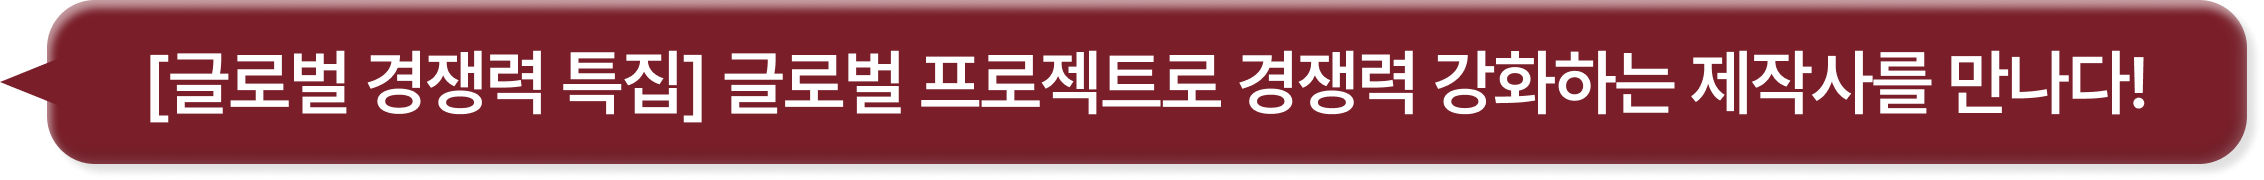
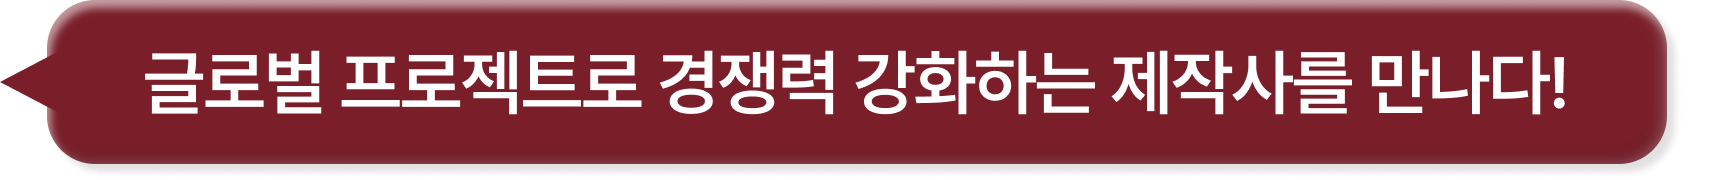
People Insight 1번 원고 퍼블리싱

Changed region(s): [[0.0622, 0.0, 0.9954, 0.9444], [0.0, 0.0, 0.0622, 0.3333], [0.0, 0.5833, 0.0622, 0.9167]]

diff --git a/people_1.html b/people_1.html
@@ -4,7 +4,7 @@
 <head>
   <meta charset="UTF-8" />
   <meta name="viewport" content="width=device-width, initial-scale=1.0" />
-  <meta name="방송영상·OTT 트렌드 2025 Vol. 3" content="방송영상·OTT 트렌드 2025 Vol. 3"/>
+  <meta name="방송영상·OTT 트렌드 2025 Vol. 4" content="방송영상·OTT 트렌드 2025 Vol. 4" />
   <meta property="og:image" content="./img/assets/meta.png">
   <title>방송영상 · OTT 트렌드</title>
 
@@ -75,10 +75,10 @@
       <div class="banner-inner">
         <div class="banner-meta">
           <p class="banner-number">피플 인사이트 1</p>
-          <p class="banner-theme">방송영상콘텐츠 다양성을 실천하는 제작자를 만나다!</p>
+          <p class="banner-theme">글로벌 프로젝트로 경쟁력을 강화하는 제작자를 만나다!</p>
         </div>
         <p class="banner-title">
-          세상에 대한 관심으로 다양성을 이야기하다: <br class="pc-br">최복희 EBS <세상을 비집고> PD 인터뷰
+          국제 공동제작, 한국 콘텐츠의 가치를 한 단계 올려주다:<br class="pc-br">백헌석 이엘TV·스튜디오잔치 대표 인터뷰
         </p>
       </div>
     </div>
@@ -89,7 +89,7 @@
       <!-- 리드 문단 -->
       <div class="lead-section">
         <div class="lead-container">
-          <p class="lead-text"><span class="quotes">“</span>다양성을 소재로 방송영상콘텐츠를 만드는 제작자를 인터뷰하기로 기획했을 때, 편집부 안팎에서 한 목소리로 추천해준 분이 있었다. 바로 시사교양·다큐멘터리 분야에서 20년 넘게 사회의 다양한 계층을 만나 그들의 이야기를 방송으로 만들어온 최복희 PD였다. 그에게 다양성 콘텐츠를 꾸준히 만드는 이유를 묻자 호탕하게 웃으며 이렇게 답했다. “처음에는 보려고 해야 보여지더니, 이제는 보려고 하지 않아도 자꾸 눈에 보이더라구요.” 사회의 다양한 계층과 사람들 속으로 직접 들어가 끊임없는 관심으로 이야기를 찾아내는 23년차 PD를 만나서 제작 현장에서 느낀 다양성에 대해 들어보았다.<span class="quotes">”</span></p>
+          <p class="lead-text"><span class="quotes">“</span>국내 제작사 ‘스튜디오 잔치’가 글로벌 제작사 BBC스튜디오와 공동제작을 진행하고 있다. 스튜디오잔치는 ‘랩소디 시리즈’ 와 ‘K푸드쇼 맛의나라’ 로 잘 알려진 ‘이엘TV’의 자회사다. 이엘TV의 대표이자 스튜디오잔치를 함께 이끌고 있는 백헌석 대표를 만나서 BBC와의 국제 공동제작의 생생한 작업 후기와 노하우를 들어보았다.<span class="quotes">”</span></p>
           <p class="lead-author">정리. <방송영상·OTT 트렌드> 편집부</p>
         </div>
       </div>
@@ -116,41 +116,37 @@
 
             <div class="subtitle-inner">
               <div class="subtitle-bar-mobile"></div>
-              <div class="subtitle-text">세상에 대한 다양한 관점을 제시하는 방송영상콘텐츠 다양성</div>
+              <div class="subtitle-text">준비된 프로젝트가 공동제작의 기회를 잡는다, BBC와 <열두 바다></div>
             </div>
           </div>
 
-          <p class="interview-summary"><i>“방송 소재 측면에서 얼마나 다양한 계층의 이야기를 할 수 있느냐가 다양성이라고 생각해요”</i></p>
+          <p class="interview-summary"><i>“공모전 피칭에서 가장 신경 쓴 것은 두 가지입니다. 우선 아이템이 재미있어야 하고, 우리가 준비된 파트너라는 점을 강조했어요”</i></p>
 
           <div class="interview-body">
             <div class="interview-qna">
-              <p class="interview-q">Q. 방송영상콘텐츠 다양성이란 어떤 것이라고 생각하는가</p>
+              <p class="interview-q">Q. ‘이엘T’V라는 이름으로 익숙한데, ‘스튜디오잔치’라는 자회사를 만든 이유가 있는가</p>
               <p class="interview-a">
-                (최) 소재 측면에서 말하자면 얼마나 다양한 계층의 이야기를 할 수 있느냐가 다양성의 핵심인 것 같다. 아무래도 방송은 재미나 대중성을 추구하다 보니 특정 계층에 몰입해 이야기하는 경향이 있는데, 공익적인 측면에서 넓혀 보자면 사실 다양한 목소리가 있지 않나. 제가 일하는 시사교양 팀에서 다양성이란 우리가 모르는 다양한 계층의 이야기를 얼마나 많이 전할 수 있는가, 그리고 이 사람들을 모시고 어떤 프로그램을 어떻게 만들어서 시청자들이 봤을 때 ‘아 이런 사람들도 있구나’, ‘저렇게 생활하는 사람도 있구나’ 이런 반응을 얼마나 끌어낼 수 있는가 이런 측면인 것 같다.</p>
+                (백) 많은 분이 ‘랩소디’ 시리즈와 ‘맛의 나라’ 시리즈에 나온 맛집이나 음식에 대해서 궁금해했다. 그래서 그동안 출연했던 맛집이나 음식 명장들을 오프라인에 모시고 그 맛을 현장에서 직접 보여줄 수 있는 자리를 만들어보면 어떨까 생각했다. 그것을 일명 ‘프로젝트 잔치’라고 명명했다. 예를 들어 정관 스님이나 왕육성 셰프님처럼 유명 음식 장인들을 모셔놓고 갈라쇼를 한다든가 아니면 잔치 뷔페나 잔치 밀키트를 만드는 것이다. 또는 푸드 영화나 푸드 엑스포, 푸드 포럼 등 음식 관련 행사를 만들어보면 좋겠다는 생각으로 시작했다.그러나 막상 기획하다 보니까 만만한 일이 아니었다. 방송 제작과는 상황이 다르고 외부와 협업이 되게 중요했고, 많은 팀과 공동 작업을 해야 해서 이것만을 전담으로 할 만한 조직을 만들어야겠다고 생각했다. 사실 처음에 생각해낸 게 ‘스튜디오 잔치’라는 프로젝트 팀이었는데, 저희가 푸드 콘텐츠를 계속 만들다 보니 다양한 장르에서 접근하고 싶었던 아이디어들이 많이 나왔다. 푸드 드라마, 푸드 쇼, 푸드 무비, 이벤트 등 ‘푸드’를 전담으로 하는 탄력 있고 공격적이고 전문적인 조직을 만들자 해서 탄생한 게 ‘스튜디오 잔치’다.</p>
             </div>
 
             <div class="interview-qna">
-              <p class="interview-q">Q. 프로듀서의 관점에서 방송영상콘텐츠 다양성이 필요한 이유는 무엇이라고 보는지</p>
+              <p class="interview-q">Q. BBC와 <열두 바다>를 공동제작하는 것으로 알려졌는데, 이번 협업이 어떻게 이루어졌는지 소개해 달라</p>
               <p class="interview-a">
-                (최) 방송의 역할과 맞닿는 부분도 있는데 단순히 재미 소구용 방송이 아니라 소위 ‘공중파’, 즉 공영 방송국에서 추구하는 다양한 이야기 그리고 방송을 통해서 사람들에게 소구하고자 하는 사회적 의미를 생각했을 때, 방송이 다양한 프로그램과 사람들의 얘기를 통해서 세상에 대한 여러 가지 다양한 관점을 줄 수 있다고 생각한다. ‘나는 이렇게 생각했는데 저런 사람도 있네’, ‘어떤 프로그램 보니까 이렇게 사는 사람들도 있더라’, ‘그 사람들이 봤을 때 나는 그래도 이런 것 같아’ 이렇게 다양한 사람들을 통해서 다양한 생각과 관점을 가질 수 있고 그러다 보면 사회 통합에도 도움이 되는 것 같다. 이해의 폭이 넓어지니까 말이다.</p>
+                (백) 2024년 가을에 BBC스튜디오와 한국콘텐츠진흥원이 글로벌 OTT 플랫폼에 론칭할 프로젝트 공모가 있었는데, 그때 공모에 응해서 최종 선정이 됐다. 사실 <열두 바다>는 미리 준비하던 아이템이다. ‘랩소디’ 시리즈를 한 5~6년 제작하다 보니 다른 프로젝트가 필요했고 원래 바다에 관심이 많았다. 우리나라는 삼면이 바다이고 동해, 남해, 서해 각 바다의 성격이 완전히 다르므로 해산물이 우리나라 식탁 문화에 굉장히 중요한 요소로 자리한다. 이러한 부분을 깊이 있게 다룬다면 굉장히 색다른 콘텐츠가 될 거라고 생각했다. 무엇보다 우리는 1년 열두 달, 매달 새로운 해산물 식재료가 나온다. 이 부분이 굉장히 매력적인 포인트라고 생각해서 제목을 ‘열두 바다’라고 지었다. 사실 삼면의 바다에서 계절마다 나오는 새로운 해산물 식재료를 심도 있게 탐구해 보자는 뜻으로 ‘열두 바다’라는 제목의 기획을 이미 갖고 있었다. 마침 기다렸다는 듯이 BBC·콘진원과 함께하는 기회가 있어 지원했고, 운이 좋게도 저희가 선정돼서 함께 제작하게 되었다.</p>
             </div>
 
             <div class="interview-qna">
-              <p class="interview-q">Q. 현장에서 체감하기에 국내 방송영상콘텐츠 다양성은 어디까지 왔다고 생각하는가</p>
+              <p class="interview-q">Q. <열두 바다>라는 프로젝트에 대해 좀 더 자세하게 소개해 준다면</p>
               <p class="interview-a">
-                (최) 최근 현장에서 느끼기에 소재의 다양성 측면은 오히려 약간 축소되는 것 같다. 방송 환경이 급변하면서 공적인 측면의 방송 역할이 무너진 경향이 있다. 소재의 다양성 역시 방송에서 맛보기나 재미 측면에서 다양성 축으로 가는 거지. 진정성 있게 계층 간의 다양한 목소리를 내는 사례는 줄어들고 있지 않나 싶다.</p>
+                (백) 일단 한국처럼 삼면이 바다를 갖고 있는 나라가 세계적으로 그렇게 많지 않은데, 그 바다의 성격이 각각 다르기도 굉장히 어렵다. 아시다시피 동해는 한류와 난류가 교차해 어족(어종)이 풍부한 지역이다. 남해는 섬을 많이 품고 있고 수온이 따뜻해 많은 어류와 해산물의 산란처 역할을 해서 양식이 발달해 있다. 서해에는 자랑스러운 갯벌이 있다. 이렇게 각 바다가 성격이 너무 다르고 각 바다에서 매 계절 봄, 여름, 가을, 겨울마다 나오는 해산물 또한 정말 다양하다. 바다에서 나오는 해산물의 수를 대략 헤아려보면 우리나라 사람들이 섭취하는 해산물 종류가 180여 종 정도 된다. 아마 세계에서 가장 다양한 해산물을 섭취하는 민족이 우리나라일 것이다. 심지어 해산물을 날로만 먹는 게 아니라 여러 조리법으로 먹기도 한다. 또 우리는 발효의 민족 아닌가. 다양한 방식으로 발효해서 젓갈 등이 건강한 식탁을 구성하는 데 중요한 요소로 작용한다. 바다에 관한 이야기는 우리나라뿐 아니라 특히 아시아권이 해산물을 많이 섭취하기 때문에 아시아권 국가에도 매력적으로 다가설 것으로 생각했다. 따라서 글로벌에서 의미 있는 한식 프로젝트를 론칭할 때 바다를 주제로 해야겠다는 생각으로 만든 게 <열두 바다>다.</p>
             </div>
 
             <div class="interview-qna">
-              <p class="interview-q">Q. 작품 연출할 때 소재나 콘텐츠 다양성을 특별히 고려하는 부분이 있는가</p>
+              <p class="interview-q">Q. 콘진 공모전 피칭할 때 가장 신경 쓴 부분이 있다면 무엇인가</p>
               <p class="interview-a">
-                (최) 처음 기획할 때부터 어떤 계층의 어떤 이야기를 할 것인가를 정해야 한다. 1차로 타깃팅을 어디로 할 것인지, 여기부터 선택의 부분이다. 사실 독립영화를 만들지 않는 한, 기획이 어느 정도는 나올 수밖에 없다. 예를 들면 작년에 했던 저출생 관련 다큐는 저출생 관련해서 기획안을 써서 일단 주제가 정해졌다. 그럼 그 안에서 다양성 측면에서 어떤 부분을 보여줄 것인가는 PD의 몫이다. 예를 들어 난임에 대한 얘기를 한다면 난임의 어떤 부분과 저출생을 연관지을 것인지, 아니면 다둥이를 찍어서 이 다둥이의 어떤 모습을 통해서 어떤 게 힘들고 이 사람들은 왜 그런 선택을 했고 이런 걸 통해서 저출생 문제를 해결하려고 할 것인지. 하나의 주제 안에서 계층 간의 다양성을 얘기한다면 정말 어렵게 사는 얘기를 할 수도 있다. 이런 식으로 소재들을 어떤 식으로 선택하는가에 따라서 다큐멘터리 안에서의 다양성이 달라지는 것 같다.</p>
-            </div>
-
-            <div class="interview-qna">
-              <p class="interview-q">Q. 다양성을 고려해서 연출할 때 가장 어려운 부분이 있다면 무엇인가</p>
-              <p class="interview-a">
-                (최) 아무래도 섭외다. 모든 방송 프로그램은 소재가 중요하다. 소재에 맞는 섭외가 돼야 하고, 그에 맞는 인물 캐릭터가 있어야 한다. 사람들이 방송을 봤을 때 소구력이 있어야 하기 때문에, 항상 주제에 맞는 캐릭터 섭외를 고민한다. 우리의 방송 콘셉트를 말씀드리고 출연자들이 프로그램에 적극적으로 참여할 수 있게끔 끌어내는 게 PD의 역할인데 그게 가장 중요하고도 어려운 부분인 것 같다.</p>
+                <b>(백) 두 가지였다. 첫 번째로 우선 아이템이 재미있어야 한다.</b> 그래서 우리 아이템이 재미있고 전 세계 사람들의 흥미를 끌 것이라는 부분을 강조하려고 애썼다. 특히 한국 바다에 다양한 해산물이 나온다는 것 그리고 계절마다 또 달마다 새로운 해산물이 나오고 그 해산물을 다양한 조리법과 실험법으로 건강한 밥상과 먹거리를 만들어내고 있다는 것을 강조하려고 했다. 또한 이러한 부분은 해산물을 좋아하는 아시아권에서 매력적으로 다가설 것이라는 걸 어필하려고 애를 썼다.<br><br>
+                
+                <b>두 번째는 결국 우리는 준비된 파트너라는 것이다.</b> 그래서 레퍼런스로 ‘랩소디’ 시리즈, ‘맛의나라’ 시리즈를 통해서 우리의 제작 퀄리티와 스타일에 대해서 어필하려고 애를 썼고, 무엇보다 우리는 BBC와 좋은 파트너가 될 것이라는 점을 많이 강조했다.</p>
             </div>
           </div>
         </section>
@@ -162,46 +158,35 @@
 
             <div class="subtitle-inner">
               <div class="subtitle-bar-mobile"></div>
-              <div class="subtitle-text">다양성 방송콘텐츠 제작 사례: EBS <세상을 비집고> 외</div>
+              <div class="subtitle-text">국제 공동제작, 서로의 언어와 방식을 맞춰가는 시간이 필요하다</div>
             </div>
           </div>
 
-          <p class="interview-summary"><i>“사실 보려고 해야 보이잖아요.<br>처음에는 보려고 해야 보여지더니, 나중에는 보려하지 않아도 보이더라구요.”</i></p>
+          <p class="interview-summary"><i>“우리는 크게 중요하지 않다고 생각하는 부분을 BBC에서는 오히려 중요하다고 강조하는 경우도 있어서 그에 대한 격차가 초반에 많이 컸습니다.”</i></p>
         
           <div class="interview-body">
             <div class="interview-qna">
-              <p class="interview-q">Q. EBS <세상을 비집고>(이하 세비고)는 각기 다른 장애를 가진 MZ세대 4인방이 주인공으로 등장한다는 점에서 기존 국내 방송에서 보기 어려운 프로그램인데, 기획 의도가 무엇인가</p>
+              <p class="interview-q">Q. 이번 협업에서 스튜디오잔치와 BBC는 각각 어떤 역할을 담당해서 진행하고 있는가</p>
               <p class="interview-a">
-                (최) EBS 편성팀에서 기획안이 나왔는데, 다양한 나이대와 계층을 가진 장애인들이 나와서 장애에 대해 스스럼없이 밝은 분위기로 얘기하는 프로그램이었으면 좋겠다는 내용이었다. 사실 그전부터 우리나라 장애인 프로그램에 대한 문제 의식이 있었다. 매번 사연팔이 아니면 짠하게만 그려지는 거다. 저는 소외계층이라는 말도 마음에 안 든다. 소외계층이라는 말 자체가 사실은 소외시키는 것 같다. 장애인, 소외계층이라는 카테고리 안에 가두다 보니까 그 사람이 어떤 성격을 가졌고 어떤 인물인지 전혀 생각하지 않고, 싸잡아서 전부 장애인이고 소외계층을 만든다. 이런 접근을 하다 보니 방송에서도 이 사람이 왜 다쳤는지 그리고 왜 힘든지를 자꾸 감성적으로 유도하는 경향이 있다.<br><br>
+                (백) 완벽한 공동 제작이다. 저도 이런 해외 공동 제작을 처음 해봤는데, <b>‘이게 진짜 공동 제작이구나’ 하는 생각이 들 정도로 완벽하게 함께 한다. 모든 걸 함께 결정하고 고민하고 토의하는 가운데 최선의 선택을 하기 위해서 많은 대화를 하는 과정을 갖는데 물론 쉽지는 않다.</b> 역할 분담을 보자면, BBC 스튜디오에는 EP(Executive Producer, 총괄프로듀서)와 우리나라로 치면 작가 역할을 동반하는 편집프로듀서라는 개념이 있는데 그렇게 두 분이 전담으로 적극적인 참여를 한다. 스튜디오잔치는 제가 EP를 맡고 그 외 제작에 들어가는 연출팀, 작가팀, 촬영팀, 조명팀, 기술팀, 후반 작업팀까지 모든 제작 관련 팀은 저희 쪽에서 담당하고 있다.그래서 기획에서부터 프리프로덕션, 프로덕션, 포스트프로덕션까지 전체적으로 다 같이 함께 제작한다고 보면 되는데 가장 큰 차이는 배급이다. 최종 완성하면 글로벌 배급은 BBC 스튜디오가 담당하고 국내 배급은 스튜디오잔치가 담당하는 구조로 되어 있다.</p>
+            </div>
+
+            <div class="interview-qna">
+              <p class="interview-q">Q. 국제 공동제작을 하면서 가장 어려운 점은 무엇이고, 어떻게 극복해 나갔는지</p>
+              <p class="interview-a">
+                (백) 세 가지 정도 있다. 일단 <b>예산 항목에 대한 접근 방식</b>이 다른 부분이 있고 두 번째로 <b>프로덕션 제작 과정에 대한 준비 스타일</b>이 다른 것 같다. 프리프로덕션에서 사전 준비를 많이 하는 게 BBC 스타일인 것 같고, 보통 국내 제작 방식은 프리프로덕션과 프로덕션이 거의 대등하게 같이 움직이는 편이라 차이가 있었다. 결정적으로 중요한 건 <b>우리가 재미라고 생각하는 포인트의 차이다.</b> 아마 그 부분이 처음 프리프로덕션 단계에서 서로 조정하기 가장 어려운 문제였다고 생각한다.다시 돌아와서 처음부터 이야기하면, 저희는 한국 바다의 다양성을 깊이 있게 들어가야 훨씬 더 보여줄 게 나올 거라고 생각했다. 팩추얼 다큐의 핵심은 영상이라고 생각하기 때문에, 좀 더 디테일하고 유니크한 부분에 집중해서 구성의 스타일을 많이 가미하려고 애를 썼다. 물론 BBC가 그렇지 않다는 건 아니지만 BBC는 스토리라인을 굉장히 중요시했다. 스토리라인과 이야기의 구조, 기승전결 같은 부분을 중요히 생각했고, <b>무엇보다 중요한 것은 전 세계 시청자들을 상대로 생각한다는 게 차이가 컸던 것 같다.</b> 이 부분은 저희가 지금 많이 배우고 있는 것 중 하나다. 전 세계 시청자들이 과연 한국이라는 나라와 소재에 대해서 얼마큼 관심을 두고 있고, 그들에게 다가가기 위해서 어떤 스타일로 접근해야 하는지에 대한 견해 차이가 있었던 것 같다. <b>쉽게 얘기하면 우리는 크게 중요하지 않다고 생각하는 부분에 있어서 오히려 BBC는 중요하다고 강조하기도 해서 그에 대한 격차가 초반에 컸다.</b> 초기 두 달은 그러한 입장 차와 생각의 방향을 서로 정리하는 데 많은 시간을 할애했고, 상당히 힘들었다.<br><br>
                 
-                EBS에서 새로운 계층에 대한 이야기를 해보자는 기획안이 나왔을 때, 처음에 제일 중요하게 생각한 건 일단 재미있어야 한다는 것, 그리고 매력적인 캐릭터가 있어야 한다는 것이었다. 그래서 20~30대 MZ세대 장애인들을 생각했다. 선천적 장애를 가지고 있든, 불의의 사고나 병력으로 장애를 가졌든 이 친구들에게 장애가 다가 아닐거란 생각을 했다. 그들도 친구가 있고, 자기 생활이 있을 것이다. 장애가 사이드(side)인 친구들에게 일상적인 이야기를 듣고 싶었다. 다만 EBS 기획 의도에 있는 다양한 계층이 떼샷으로 나와서 얘기하는 것은 아니라는 생각을 했다. 왜냐하면 어떤 캐릭터를 얘기할 때, 그 캐릭터에 감정 이입이 되려면 캐릭터의 개인적인 생활과 성격이 드러나야 하는데 떼로 우르르 나오면 집중이 안 될거라고 생각했다.</p>
-            </div>
-
-            <div class="interview-qna">
-              <p class="interview-q">Q. <세비고>의 주인공 4인방 멤버 섭외는 어떻게 이루어졌는지 궁금하다. 마침 모두 유튜브 채널을 운영하는 크리에이터들인데, 이는 콘텐츠 트렌드를 반영한 것인가</p>
-              <p class="interview-a">
-                (최) 멤버 섭외의 기준은 젊은 친구들 중에 말 잘하고 장애에 대해 긍정적인 사고를 가지고 있으면서 제가 모르는 부분을 얘기해 줄 수 있는 친구들이면 좋겠다는 게 시작이었다. 디테일하게 들어가면 섭외에서 가장 포인트를 둔 건 각자 다른 장애여야 된다는 것, 즉 서로 다른 캐릭터여야 한다는 것이었다. 보통 비장애인들이 장애인을 바라보는 시선을 보면 장애인이라는 하나의 카테고리로 묶는다. 장애 안에서도 다양한 장애가 있는데, 정작 장애를 가진 분들도 서로의 장애에 대해 잘 모르더라. 이게 좀 특이하다고 생각했다. 그리고 저 역시도 선입견을 갖고 있었다는 것을 깨달았다. 왜 장애를 가지면 서로를 다 안다고 생각했을까. 그래서 서로 다른 장애를 지닌 친구들이 모여서 서로를 돕고 서로의 다른 점을 얘기하는 모습이 방송프로그램에 나갔을 때 사람들로 하여금 다양한 생각을 할 수 있게 하지 않을까 생각했다. 지금 멤버들은 장애인 단체나 관련된 곳에 면접을 볼 수 있게끔 부탁해서 찾게 된 것이다. 특별히 트렌드를 고려한 건 아니었다. 일부러 크리에이터를 찾은 게 아니라, 찾다 보니 다 그렇게 하고 있는 거였다.</p>
-            </div>
-
-            <div class="interview-qna">
-              <p class="interview-q">Q. 시청자들이 방송을 보고 어떻게 받아들였으면 좋겠다 하는 연출 의도가 있었나</p>
-              <p class="interview-a">
-                (최) 시청자들이 이 친구들의 밝고 긍정적인 캐릭터와 장애를 삶의 한 부분으로 받아들이고 있는 모습을 있는 그대로 느끼면 좋겠다는 생각을 했다. 사실은 장애도 하나의 특징일 뿐 별다른 게 아니다. 고칠 수 있는 질병이 아니라 그냥 안고 가는 것이다. 이 친구들의 밝은 에너지를 프로그램을 통해서 느끼고 장애를 가진 사람들이 멀리 있는 게 아니라 우리 주변에 있는 사람이라고 느낀다면 좋을 것 같다.</p>
-            </div>
-
-            <div class="interview-qna">
-              <p class="interview-q">Q. 비장애인 출연자에 비해 장애인 출연자와 촬영할 때 특별히 더 신경을 쓴 부분이 있는가</p>
-              <p class="interview-a">
-                (최) 오히려 없는 것 같다. 사실 연예인 출연자가 나오는 예능 프로그램은 대본이 있어서 기본적으로 그리고 정확한 시간 안에 지켜줘야 되는 것들이 있지 않나. 일반인들과 다큐멘터리 촬영을 할 때 물론 기본적인 콘셉트나 이런 것들은 사전 미팅에서 얘기하지만, 가장 중요하게 생각하는 건 자연스러움이다. 자연스러움은 연출로는 안 나온다. 연출도 모르게 해야 한다. 세팅한 걸 말하지 않기 때문에 그 세팅을 모르고 촬영에 임했다가 알게 되는 이런 구도로 일부러 숨기고 진행한다. 그래서 원망 많이 들었다(웃음).</p>
-            </div>
-
-            <div class="interview-qna">
-              <p class="interview-q">Q. 다양한 사회 이슈와 문제들을 다큐멘터리로 다루어 왔다. 그 중에서 &lt;SBS 스페셜> 은둔형 외톨이 편도 굉장한 화제가 되었다. 장애 청년이나 고립 청년 등 세상 밖에 나오지 않는 사회의 주변부에   
-                있는 사람들을 콘텐츠로 다루는 이유가 있는지 궁금하다</p>
-              <p class="interview-a">
-                (최) 특별하게 사회 개혁적 의식을 가지고 있다기 보다는 그저 PD로서 소임을 다하고 있다고 생각한다. 오랫동안 PD로 한 자리에서 일하면서 끊임없이 아이템이나 소재를 찾을 수밖에 없고, 그 과정에서 제가 선택한 게 시사교양 쪽이다 보니까 아무래도 사회를 바라보는 다양한 시선을 갖게 된 것 같다. 그러다보니 자연스럽게 보는 게 많아졌다. 사실 보려고 해야 보이는 것 아닌가. 처음에는 보려고 해야 보이던 것이 나중에는 보려 하지 않아도 보여지게 되더라. 결국은 관심의 문제 같다. 오래 일을 하다 보니 그런 부분들에 자꾸 연이 닿는 느낌이다.<br><br>
+                <b>두 번째 예산에 대한 생각의 차이가 있는데, 결정적으로 우리나라에 있는데 외국에는 잘 없어서 문제가 된 것이 작가의 영역이다.</b> 외국에서는 작가가 스크립트 영역에서 활동하고, 언스크립트에서는 작가의 역할을 보통 프로듀서가 담당하기 때문에 작가 역할에 대해 서로 견해차가 있었다. 그래서 우리가 이 작가의 영역과 비용을 따져보니 1년 동안 진행될 때 예산 비중이 상당해서 그에 대한 입장 차가 있었다. 한국의 비용 지급 방식은 월급 방식인데 외국은 시간제라서 얼마큼 시간을 일에 공유했는지에 초점을 맞추니까 예산에 대한 생각 차이가 발생했다. 결국 절충안을 찾아서 한국적인 상황은 그렇게 하기에는 어려운 실정이 있으니 양해해 달라고 대화로 풀어나갔다.<br><br>
                 
-                <궁금한 이야기 Y>를 오랫동안 하면서 깨달은 바가 있었다. 세상엔 정말 많은 사람들이 있고, 다양한 사람들 속에서 각자 문제를 어떻게든 해결하면서 살아가더라. 그러다 어떤 작은 도움을 기대하면서 저희 프로그램에 제보를 하는데, 제보를 받아서 가면 그분들에게 저는 마치 구세주와 같다. 그런 느낌을 받았을 때 물론 부담스럽기도 하지만, 그저 PD로서의 임무를 다하며 프로그램을 만들어 가다 보면 이분들에게 어떤 방식으로든 도움이 되는 경우가 있다. 물론 모든 사람들이 도움을 받을 순 없겠지만, 정말 작은 도움 하나가 간절한 분들이 문제가 해결되고 편안해지는 때가 있다. 방송으로나마 그분들은 도움을 받는 것이다. 그래서 사실 이런 프로그램들이 중요하다.</p>
+                편집에 대한 견해 차이가 있었다. 우리나라에서 연출은 사실 가편집까지 거의 커버하는데 BBC는 편집 에디터가 따로 있어서 별도로 진행한다. 그래서 연출은 현장 연출 디렉션과 방향 설정만 하고, 이후 실질적으로 기술적인 부분은 전문가 영역이다. 그러다보니 포스트 작업에 대한 비용은 외국이 훨씬 더 큰 예산이 잡혀 있다. 후반 작업은 저희가 상대적으로 비중의  차이가 있었다.<br><br>
+                
+                <b>가장 큰 차이는 프로덕션 단계에 들어가기 전에 거의 완벽한 시나리오가 있어야 한다는 것이었다.</b> 거의 드라마처럼 찍어야 하는 수준이라 놀랐다. 완전히 확정된 신(Scene)을 갖고 찍어야 될 정도로 스토리라인과 스크립트를 원하고 철저하게 준비한다. 저희 제작진이 그걸 따라가는 게 조금 버거웠지만 결국 다 맞췄다. 거기다 모든 준비를 국문과 영문으로 작업해야 되니까 작업이 두 배로 늘어난다. 모든 파일을 국문으로 한번 작업하고 다시 영문화하고, 반대로 BBC에서 오는 내용도 다시 번역해야 하니까 작업량이 아무래도 20~30% 이상 증가한다는 어려움이 있다. 물론 당연한 과정이지만, 그런 시간들이 차지하는 비중을 처음에는 생각하지 못했다. 초기에는 번역이나 서로 이해를 위한 공간(여지)을 남겨놔야 되는구나라고 생각하게 됐다. 이제는 당연히 번역 작업까지 미리 준비해서 시간을 맞춰가고 있는 편이다.</p>
+            </div>
+
+            <div class="interview-qna">
+              <p class="interview-q">Q. 글로벌 플랫폼에서 글로벌 시청자를 대상으로 콘텐츠를 만들 때 특별히 더 신경쓰는 부분이 있는가</p>
+              <p class="interview-a">
+                (백) 사실은 똑같다. 저는 한국 시청자가 우선이다. 글로벌로 목표 지향점을 갖고 있지만 일단 국내 시청자에게 매력적이지 않으면 글로벌에서 성공할 수 없다고 생각한다. <b>한 가지 중요하게 생각하는 건 저희가 만드는 콘텐츠는 최소 10년 유통된다는 기준을 가지고 제작한다는 것이다.</b> 그 이유는 글로벌 OTT 플랫폼과 계약을 하면 그 계약 기간이 10년이다. 10년 동안 이 콘텐츠가 유통이 된다고 생각하면 다르게 생각해야 한다. 일단 내용에 있어서 팩트 체크가 가장 중요하다. 특히 맛집 선정을 할 때 지난 시간 오랫동안 유지돼 왔고 앞으로도 유지될 가능성이 높은 것이 중요하다. 자의적 판단이긴 하지만 우리가 선정한 맛집들이 5년, 10년 후에도 있을 수 있을까라는 생각을 항상 염두에 둔다. 그래서 새로운 집을 하기는 조금 어려움은 있다. 물론 일정 부분 요즘 트렌드를 반영해서 녹이긴 한다. 궁극적으로 10년 후에 봐도 영상이 멋져야 되니까 우리가 할 수 있는 최고의 영상 퀄리티를 위해서 4K 카메라를 쓰거나 메이킹 작업을 우리가 할 수 있는 최상의 수준으로 하려고 굉장히 애를 쓰고 있다.</p>
             </div>
           </div>
         </section>
@@ -213,41 +198,53 @@
 
             <div class="subtitle-inner">
               <div class="subtitle-bar-mobile"></div>
-              <div class="subtitle-text">시사교양 PD의 눈, 세상에 대한 끊임없는 관심으로 다양성을 찾다</div>
+              <div class="subtitle-text">한식의 세계화와 한식 콘텐츠의 글로벌 경쟁력</div>
             </div>
           </div>
 
-          <p class="interview-summary"><i>“다큐멘터리가 설 자리가 없어졌다는 것은 곧 다양한 계층의 이야기들이 사라지고 있다는 것으로도 볼 수 있죠”</i></p>
+          <p class="interview-summary"><i>“국제 공동제작은 한국 콘텐츠의 가치를 한 단계 업그레이드시킬 수 있는 중요한 포석이 될 거라고 생각합니다”</i></p>
           <div class="interview-body">
             <div class="interview-qna">
-              <p class="interview-q">Q. 방송프로그램의 다양성 확대를 위해 필요한 노력이나 지원이 있다면 무엇인가</p>
+              <p class="interview-q">Q. 최근 한식의 글로벌 인기를 체감하는지, 그리고 이런 한식의 인기가 한식 콘텐츠를 제작하는데 도움이 되는지 궁금하다</p>
               <p class="interview-a">
-                (최) 사실 앞으로 5년, 10년 후에 방송 생태계가 어떻게 될지 굉장히 궁금하다. 일단 방송 환경 자체가 채널이 너무 많아졌고, 유튜브처럼 개인적으로 영상을 소구할 방법도 많아졌다. 공중파 시청률이 높지는 않더라도 어느 정도 봐 주는 사람이 있어야 프로그램도 만들어지고 제작비도 늘어나고 이른바 제작 환경이 만들어지는 건데, 지금은 공중파가 설 자리가 없어지고 있다. 교양국 자체가 축소되고, 다큐멘터리를 만들지 않는다. 그러다 보니까 전통 다큐가 설 자리가 없어졌다. 단순히 다큐멘터리가 설 자리가 없다라는 얘기를 더 깊이 뒤집어 보면 결국은 다양한 계층, 소외된 계층의 이야기들이 사라지고 있다라고도 할 수 있는 것이다.<br><br>
+                (백) 얼마 전 캐나다 토론토에서 K-박람회라는 행사가 열렸다. 한국 콘텐츠, 농산물, 뷰티 관련 제품을 캐나다에 계신 분들에게 알리고 직접 체험할 수 있는 행사였는데, 참여 관객이 7만여 명 이상으로 큰 성공을 거뒀다. 저는 프로그램의 하나로 류수영 배우와 함께 한식 토크쇼와 쿠킹쇼를 진행했다. 당연히 교민들이 많이 오시겠지 예상했는데 놀랍게도 거의 70% 이상은 현지 외국인들이 참여했고 반응도 엄청났다. 한국과 한식에 대해 상당히 많이 알고 있어서 놀랐다. 눈으로 본 적은 없어서 과연 얼마만큼 우리의 한류나 한식이 외국인들에게 다가갔는지 알 수 없었는데 실질적으로 현장에서 목격하면서 많이 놀랐다.그 이후에 B2C와 B2B 행사에 참여했는데 꽤 많은 분이 ‘랩소디’ 시리즈를 알고 계셔서 뿌듯한 느낌이 들었다. 물론 <열두 바다> 소개도 했는데, <열두 바다>에 다들 큰 관심을 갖고 무조건 잘될 거라고 이구동성으로 말했다. 한식의 또 다른 중요한 축 중 하나인 사찰 음식 콘텐츠도 소개했다. 정관 스님과 거의 마무리 단계에 있는 게 하나 있고, 사찰음식 명장들과 함께 <공양단의 셰프들>이라고 지금 제작 들어가는 것도 있는데 캐나다에서 굉장히 관심을 보이며 완성된 트레일러가 있으면 꼭 공유해 달라는 부탁을 받기도 했다.<br><br>
                 
-                방송의 역할, 공공성의 역할에는 사람들이 잘못 알고 있는 것을 알려주어서 사람들의 생각이 바뀌게끔 이끌어주고, 어떤 문제가 있을 때 적극적으로 알려서 사람들이 문제의식을 가지고 전반적인 사회적 합의를 이루어 문제를 해결하는 궁극적인 목적이 있다고 생각한다. 소위 공중파 채널의 파워가 약해지다 보니까 이러한 공공성도 약해진다고 생각을 한다. 그러다 보니까 다양한 얘기를 할 수 있는 채널이 점점 없어지고 있는 것이다.<br><br>
-                
-                물론 사회가 변하고 있고 우리 역시 변화를 받아들여 그에 따른 방법들을 적극적으로 도입해서 새로운 방향의 다큐멘터리, 새로운 교양 프로그램을 만들 수도 있겠지만 그래도 어느 정도 선은 지켜져야 된다고 생각한다. 사회에 영향을 미칠 수 있는 방송의 역할이라는 것에 집중해서 공공성 목적의 편성을 조금이라도 늘려야 된다고 생각한다. 그러면 그 편성 안에서 또 다른 방식의 추구들을 할 수 있을 것이다.</p>
+                제 생각엔 이제 시작인 것 같다. 아마 한식 열풍의 시작은 2020년 아카데미 작품상을 받은 봉준호 감독의 <기생충>에 한우 채끝 짜파게티가 나온 게 시작이지 않을까 생각한다. 그 이후 K-드라마, K-팝 등 K-콘텐츠에서 많은 한국 음식이 등장하면서 한식이 궁금해졌고, 한식이 궁금해지던 그 시기에 ‘랩소디’ 시리즈와 ‘맛의 나라’ 시리즈가 작은 역할은 한 것 같다. 이제는 더 많은 사람이 궁금해하기 때문에 사실 할 게 너무 많아졌다. 단순하게 다큐멘터리 말고도 넓게 보면 여러 가지 장르와 스타일, 예능도 가능하고 쇼나 드라마 등 충분히 한식을 주제로 가능한 협업이나 콘텐츠가 가능하다고 생각한다.</p>
             </div>
 
             <div class="interview-qna">
-              <p class="interview-q">Q. 다큐멘터리 PD를 꿈꾸는 후배 연출자들에게 다양성을 바라보는 시각을 어떻게 가지면 좋을지 조언해 준다면</p>
+              <p class="interview-q">Q. 국제 공동제작이 침체된 내수 시장을 일으켜주고, 우리 콘텐츠의 글로벌 경쟁력을 강화하는데 도움이 된다고 생각하는가</p>
               <p class="interview-a">
-                (최) 일단 다큐멘터리 하겠다는 친구들은 어느 정도 시선 자체가 이미 갖춰졌다고 생각한다. 다른 사람들이 사회에서 못 보는 것들을 보겠다는 자세를 가지고 있다고 본다. 왜냐하면 다큐멘터리는 결국 어떤 사람의 인생을 들여다봐야 되는 일이기 때문이다. 요즘처럼 다큐멘터리나 시사교양 분야가 축소되는 상황에서는 오히려 다이나믹하게 여러 장르들을 섭렵해야지, 우물 안 개구리처럼 매몰돼 있으면 안 된다라는 생각도 든다. 무엇보다 세상에 대한 관심이 필요하다. 사회 전반적으로 어떻게 변화하고 있는지 알아야 하고 그 안에서 우리가 뭘 해야 하는지에 대한 관심이 끊임없이 필요한 분야인 것 같다. 그래야 사람들에게 깊은 공감을 줄 수 있는 다큐멘터리를 만들 수 있지 않을까. 저 역시도 지금껏 그렇게 하고 있는 작업이기도 하다.</p>
+                (백) 너무나 당연하다. 사실 <b>한국 콘텐츠의 가치가 지금까지는 올바르게 평가되지 못했다</b>고 본다. 글로벌 스탠다드라는 기준점에 많이 도달해 있지 않았고, 비즈니스도 활발하게 이루어지지 못했다. 그래서 한국 콘텐츠가 의미는 있으나 과연 돈을 벌었는가, 성과를 냈느냐는 부분에서 특히 팩추얼 장르에 한해서는 어려웠던 부분도 있었다. <b>국제 공동제작은 한국 콘텐츠의 가치를 한 단계 업그레이드시킬 수 있는 중요한 포석이 될 것 같다.</b><br><br>
+                
+                BBC와 얘기하다 보면 저희가 생각하는 단가와 달라서 놀랄 때가 있다. 물론 그게 실행되고 결과가 나오기까지는 시간이 걸리겠지만 어쨌든 시작 포인트가 다르다는 건 너무 중요하다. 그렇다면 <b>이제는 수익을 낼 수 있는 재미있는 콘텐츠를 만들 기회를 잡을 수 있다는 게 해외 공동제작의 가장 큰 매력 포인트라고 생각한다.</b> 따라서 거기에 걸맞은 준비도 해야 한다. 한국이라는 시장에서만 유통하고 수익을 낸다고 생각한다면 사실 제작사나 제작진이 투자하기 어려운 부분도 있을 것이다. 근데 한국 시장은 기본이고 최소한 중국과 일본을 포함한 아시아 시장과 좀 더 넓혀서 미국과 캐나다의 북미 지역 또는 유럽 시장까지 우리 콘텐츠가 유통되는 범주라고 생각한다면 입장이 굉장히 달라질 것이다. 물론 리스크가 있겠지만, 충분히 지금의 흐름과 추세를 보면 리스크만이 아닌 적극적인 투자라고 생각한다.<br><br>
+                
+                그래서 콘텐츠를 기획하는 많은 제작자분들께 꼭 드리고 싶은 말씀은 좋은 기획이 있다면 그것을 더 잘 만들 수 있는 환경을 고민하셔야 하고, 또 우리나라가 콘진원 등 정부 차원의 공모 제도가 잘 돼 있다. 해외에서 많이 부러워한다. 어떻게 이렇게 국가에서 많은 지원이 있느냐라는 얘기를 많이 들었다. 그게 우리나라의 강점이라고 생각하기 때문에 좋은 아이템을 발굴하면 그 기회를 잘 이용해서 공모 제안을 하면 충분히 좋은 기회가 올 거라고 생각한다.</p>
+            </div>
+
+            <div class="interview-qna">
+              <p class="interview-q">Q. 국제 공동제작을 먼저 경험해 본 입장에서 국내 제작사가 해외와의 공동제작을 앞두고 어떤 점들을 미리 준비하면 좋을지 경험에서 우러나온 조언을 해준다면</p>
+              <p class="interview-a">
+                (백) 일단은 <b>생각의 유연함이 중요하다.</b> 사실 창작자들이 굉장히 오래 고민하고 숙성시켜서 아이템을 기획해서 만들어내기 때문에 거기에 애정이 크다. 큰 노력이 들어가기 때문에 당연히 본인 스스로 최고일 수밖에 없다. 근데 경우에 따라서나 방향에 따라서 조금 달라질 수도 있다는 것을 염두에 두는 게 중요한 것 같다. 결국은 재미라는 측면이 어디까지의 재미인지가 중요하다. 앞서 얘기했듯이 일단은 한국에서 성공해야 된다. 한국 시청자들한테 재미있는 아이템이나 프로그램은 당연히 아시아나 글로벌에서도 성공할 확률이 높다고 생각한다. 거꾸로 글로벌만 대상으로 한다는 건 견해가 좀 다르다. 과연 국내에서 별로인데 글로벌에서 좋아할까. 그런 차이가 있을 수 있다.<br><br>
+                
+                <b>또 하나는 다양성이 있다.</b> 우리가 잘하는 장르들이 아무래도 휴먼이다 보니까 휴먼 장르가 상당히 많이 기획되는데 넓혀보면은 액티비티한 장르도 충분히 가능하다고 보고, 그런 제작을 우리나라가 잘 한다고 이미 알려져 있다. 우리가 잘하는 스타일의 제작 방식 또는 그걸 더 빛나게 할 수 있는 아이템이 맞아야 매칭이 되니까 그런 부분들도 고민할 필요가 있다.<br><br>
+                
+                <b>마지막으로 예산 운영도 중요하다. 사전에 프리프로덕션 단계에서 더 철저하게 체크가 필요하다.</b> 보통 제작할 때 대략의 금액을 잡아서 시작하는데 이 부분을 초기 단계에 굉장히 많이 고치게 된다. 저희가 계약서 사인하는 데만 3개월이 걸렸다. 어마어마한 양의 계약서가 계속 왔다 갔다하고 계약서에 모든 내용이 담겨 있어서 그걸 지켜야 하는데 우리가 아직은 계약서대로 하는 제작 방식 개념에 익숙하지 않다. 당연히 제작은 계약서가 있건 없건 최선을 다하는데, 그것은 우리끼리 얘기고 글로벌에서는 통하지 않는다. 계약서에 어떻게 명시돼 있느냐가 중요하기 때문에 굉장히 디테일하게 하나하나 따지는 것이 필요하다. 또 그 부분에 대해서도 열린 마음이 필요하다. 조금 시간이 걸리고 답답할지라도 기다리면서 충분히 협의하고 토론하는 시간도 필요하다고 생각한다.</p>
             </div>
           </div>
         </section>
 
         <!-- Author Profile -->
         <div class="author-profile">
-          <img src="./img/manuscript5/profile.png" alt="최복희" class="author-img"/>
+          <img src="./img/manuscript5/profile.png" alt="백헌석" class="author-img"/>
           <div class="author-info">
             <p class="author-name">
-              최복희
+              백헌석
               <br class="mobile-break" />
-              <span class="author-affiliation">(독립PD)</span>
+              <span class="author-affiliation">(이엘TV & 스튜디오 잔치 대표)</span>
             </p>
             <p class="author-description">
-              2002년 MBC <생방송 화제 집중>으로 방송에 입문했고, SBS <동물농장>, <궁금한 이야기 Y>를 거치며 시사교양 PD로 자리 잡았다. 이후 &lt;SBS스페셜: 은둔형 외톨이, 나는 고립을 선택했다>(2020), EBS<다큐멘터리 K- 인구대기획 초저출생>(2025) 등 고립 청년, 저출산과 같은 사회 이슈를 다룬 굵직한 다큐멘터리를 다수 제작하며 20년 넘게 현장에서 활동 중이다. EBS<다큐멘터리 K- 인구대기획 초저출생: 골든타임>(2025)으로 한국PD대상 올해의 PD상을, EBS<세상을 비집고>(2023)로 한국PD대상 독립제작 부문 작품상을 수상했다.
+              현 푸드콘텐츠 전문 스튜디오 이엘 TV와 스튜디오 잔치 대표이다. 33년째 콘텐츠 제작을 하고 있으며, 특히 다양한 한식 콘텐츠로  한식을 전 세계에 알리는 작업을 하고 있다. 주요 대표 작품으로 넷플릭스와 KBS에 방영된 <삼겹살 랩소디>, <한우 랩소디>, <짜장면 랩소디> 등 ‘랩소디 시리즈’와 <국물의 나라>, <김치의 나라> 등 ‘맛의 나라’ 시리즈가 있다. 제33회 한국PD대상 TV 작품상을 수상했으며, 2022 대한민국 콘텐츠대상 방송영상산업발전유공 문화포장을 수훈했다. 주요 저서로 『냉면열전』(2014)이 있다.
             </p>
           </div>
         </div>
@@ -264,7 +261,7 @@
             <p>다음 글</p>
             <img src="./img/assets/arrow.png" alt="화살표" class="arrow rotate" />
           </div>
-          <span class="post-nav-title">새로운 시도를 통해 드라마의 다양성 확장을 꿈꾸다: <br class="pc-br">장신애 tvN <미지의 서울> CP 인터뷰</span>
+          <span class="post-nav-title">서로 다른 문화의 차이를 콘텐츠로 녹여내다: <br class="pc-br">김인식 스튜디오모닥 PD 인터뷰</span>
         </a>
       </div>
     </div>

diff --git a/data_1.html b/data_1.html
@@ -4,7 +4,7 @@
 <head>
   <meta charset="UTF-8" />
   <meta name="viewport" content="width=device-width, initial-scale=1.0" />
-  <meta name="방송영상·OTT 트렌드 2025 Vol. 3" content="방송영상·OTT 트렌드 2025 Vol. 3"/>
+<meta name="방송영상·OTT 트렌드 2025 Vol. 4" content="방송영상·OTT 트렌드 2025 Vol. 4" />
   <meta property="og:image" content="./img/assets/meta.png">
   <title>방송영상 · OTT 트렌드</title>
 

diff --git a/data_2.html b/data_2.html
@@ -4,7 +4,7 @@
 <head>
   <meta charset="UTF-8" />
   <meta name="viewport" content="width=device-width, initial-scale=1.0" />
-  <meta name="방송영상·OTT 트렌드 2025 Vol. 3" content="방송영상·OTT 트렌드 2025 Vol. 3"/>
+<meta name="방송영상·OTT 트렌드 2025 Vol. 4" content="방송영상·OTT 트렌드 2025 Vol. 4" />
   <meta property="og:image" content="./img/assets/meta.png">
   <title>방송영상 · OTT 트렌드</title>
 

diff --git a/data_3.html b/data_3.html
@@ -4,7 +4,7 @@
 <head>
   <meta charset="UTF-8" />
   <meta name="viewport" content="width=device-width, initial-scale=1.0" />
-  <meta name="방송영상·OTT 트렌드 2025 Vol. 3" content="방송영상·OTT 트렌드 2025 Vol. 3"/>
+<meta name="방송영상·OTT 트렌드 2025 Vol. 4" content="방송영상·OTT 트렌드 2025 Vol. 4" />
   <meta property="og:image" content="./img/assets/meta.png">
   <title>방송영상 · OTT 트렌드</title>
 

diff --git a/people_2.html b/people_2.html
@@ -4,7 +4,7 @@
 <head>
   <meta charset="UTF-8" />
   <meta name="viewport" content="width=device-width, initial-scale=1.0" />
-  <meta name="방송영상·OTT 트렌드 2025 Vol. 3" content="방송영상·OTT 트렌드 2025 Vol. 3"/>
+<meta name="방송영상·OTT 트렌드 2025 Vol. 4" content="방송영상·OTT 트렌드 2025 Vol. 4" />
   <meta property="og:image" content="./img/assets/meta.png">
   <title>방송영상 · OTT 트렌드</title>
 

diff --git a/trend_1.html b/trend_1.html
@@ -4,7 +4,7 @@
 <head>
   <meta charset="UTF-8" />
   <meta name="viewport" content="width=device-width, initial-scale=1.0" />
-  <meta name="방송영상·OTT 트렌드 2025 Vol. 3" content="방송영상·OTT 트렌드 2025 Vol. 3"/>
+<meta name="방송영상·OTT 트렌드 2025 Vol. 4" content="방송영상·OTT 트렌드 2025 Vol. 4" />
   <meta property="og:image" content="./img/assets/meta.png">
   <title>방송영상 · OTT 트렌드</title>
 

diff --git a/trend_2.html b/trend_2.html
@@ -4,7 +4,7 @@
 <head>
   <meta charset="UTF-8" />
   <meta name="viewport" content="width=device-width, initial-scale=1.0" />
-  <meta name="방송영상·OTT 트렌드 2025 Vol. 3" content="방송영상·OTT 트렌드 2025 Vol. 3"/>
+<meta name="방송영상·OTT 트렌드 2025 Vol. 4" content="방송영상·OTT 트렌드 2025 Vol. 4" />
   <meta property="og:image" content="./img/assets/meta.png">
   <title>방송영상 · OTT 트렌드</title>
 

diff --git a/trend_3.html b/trend_3.html
@@ -4,7 +4,7 @@
 <head>
   <meta charset="UTF-8" />
   <meta name="viewport" content="width=device-width, initial-scale=1.0" />
-  <meta name="방송영상·OTT 트렌드 2025 Vol. 3" content="방송영상·OTT 트렌드 2025 Vol. 3"/>
+<meta name="방송영상·OTT 트렌드 2025 Vol. 4" content="방송영상·OTT 트렌드 2025 Vol. 4" />
   <meta property="og:image" content="./img/assets/meta.png">
   <title>방송영상 · OTT 트렌드</title>
 

diff --git a/css/detail.css b/css/detail.css
@@ -282,7 +282,7 @@ sup {
 
 .interview-summary {
   padding: 8px 12px;
-  background-color: var(--gray100);
+  background-color: var(--gray200);
   border-radius: 8px;
 
   font-size: 20px;
